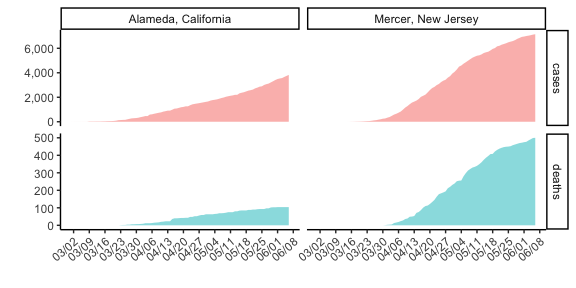
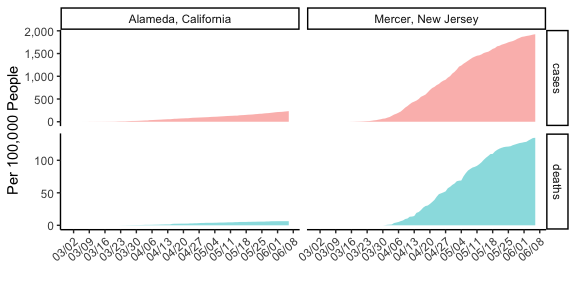
it makes the most sense to produce these number per capita

diff --git a/README.md b/README.md
@@ -1,7 +1,7 @@
 COVID-19 Data from NYT for Counties of Interest
 ================
 
-Updated: Sun Jun 7 15:06:02 2020
+Updated: Sun Jun 7 15:24:09 2020
 
 Get the Data
 ------------
@@ -22,16 +22,16 @@ Are you curious what it looks like? It looks like this.
 
 ``` r
 df %>%
-  sample_n(15) %>%
+  sample_n(5) %>%
   pander::pandoc.table(caption = 'NYT COVID Tracking Data')
 ```
 
-<table style="width:88%;">
+<table style="width:89%;">
 <caption>NYT COVID Tracking Data</caption>
 <colgroup>
 <col width="18%" />
-<col width="18%" />
-<col width="18%" />
+<col width="16%" />
+<col width="20%" />
 <col width="11%" />
 <col width="11%" />
 <col width="11%" />
@@ -48,123 +48,43 @@ df %>%
 </thead>
 <tbody>
 <tr class="odd">
-<td align="center">2020-05-11</td>
-<td align="center">Grand</td>
-<td align="center">Colorado</td>
-<td align="center">08049</td>
-<td align="center">5</td>
-<td align="center">0</td>
+<td align="center">2020-04-13</td>
+<td align="center">Hernando</td>
+<td align="center">Florida</td>
+<td align="center">12053</td>
+<td align="center">71</td>
+<td align="center">2</td>
 </tr>
 <tr class="even">
-<td align="center">2020-03-14</td>
-<td align="center">Sullivan</td>
-<td align="center">Tennessee</td>
-<td align="center">47163</td>
-<td align="center">1</td>
-<td align="center">0</td>
-</tr>
-<tr class="odd">
-<td align="center">2020-04-19</td>
-<td align="center">Shasta</td>
-<td align="center">California</td>
-<td align="center">06089</td>
-<td align="center">26</td>
-<td align="center">3</td>
-</tr>
-<tr class="even">
-<td align="center">2020-04-23</td>
-<td align="center">Marion</td>
-<td align="center">Texas</td>
-<td align="center">48315</td>
-<td align="center">6</td>
-<td align="center">0</td>
-</tr>
-<tr class="odd">
-<td align="center">2020-05-02</td>
-<td align="center">Butler</td>
-<td align="center">Missouri</td>
-<td align="center">29023</td>
-<td align="center">26</td>
-<td align="center">0</td>
-</tr>
-<tr class="even">
-<td align="center">2020-06-04</td>
-<td align="center">Sevier</td>
-<td align="center">Tennessee</td>
-<td align="center">47155</td>
-<td align="center">97</td>
+<td align="center">2020-05-16</td>
+<td align="center">Bulloch</td>
+<td align="center">Georgia</td>
+<td align="center">13031</td>
+<td align="center">45</td>
 <td align="center">2</td>
 </tr>
 <tr class="odd">
-<td align="center">2020-04-16</td>
-<td align="center">Auglaize</td>
-<td align="center">Ohio</td>
-<td align="center">39011</td>
-<td align="center">19</td>
-<td align="center">1</td>
-</tr>
-<tr class="even">
-<td align="center">2020-03-21</td>
-<td align="center">Lake</td>
-<td align="center">Illinois</td>
-<td align="center">17097</td>
-<td align="center">63</td>
-<td align="center">0</td>
-</tr>
-<tr class="odd">
-<td align="center">2020-05-25</td>
-<td align="center">Broadwater</td>
-<td align="center">Montana</td>
-<td align="center">30007</td>
+<td align="center">2020-04-14</td>
+<td align="center">Linn</td>
+<td align="center">Oregon</td>
+<td align="center">41043</td>
+<td align="center">52</td>
 <td align="center">4</td>
-<td align="center">0</td>
 </tr>
 <tr class="even">
-<td align="center">2020-04-05</td>
-<td align="center">Franklin</td>
-<td align="center">Georgia</td>
-<td align="center">13119</td>
-<td align="center">5</td>
-<td align="center">0</td>
-</tr>
-<tr class="odd">
-<td align="center">2020-04-16</td>
-<td align="center">Lincoln</td>
-<td align="center">Idaho</td>
-<td align="center">16063</td>
-<td align="center">15</td>
-<td align="center">0</td>
-</tr>
-<tr class="even">
-<td align="center">2020-05-24</td>
-<td align="center">Beltrami</td>
-<td align="center">Minnesota</td>
-<td align="center">27007</td>
+<td align="center">2020-04-09</td>
+<td align="center">Codington</td>
+<td align="center">South Dakota</td>
+<td align="center">46029</td>
 <td align="center">12</td>
 <td align="center">0</td>
 </tr>
 <tr class="odd">
-<td align="center">2020-04-20</td>
-<td align="center">Bourbon</td>
-<td align="center">Kentucky</td>
-<td align="center">21017</td>
-<td align="center">8</td>
-<td align="center">1</td>
-</tr>
-<tr class="even">
-<td align="center">2020-04-09</td>
-<td align="center">Calcasieu</td>
-<td align="center">Louisiana</td>
-<td align="center">22019</td>
-<td align="center">209</td>
-<td align="center">4</td>
-</tr>
-<tr class="odd">
-<td align="center">2020-05-18</td>
-<td align="center">Meade</td>
-<td align="center">Kansas</td>
-<td align="center">20119</td>
-<td align="center">22</td>
+<td align="center">2020-05-19</td>
+<td align="center">Traill</td>
+<td align="center">North Dakota</td>
+<td align="center">38097</td>
+<td align="center">2</td>
 <td align="center">0</td>
 </tr>
 </tbody>
@@ -186,11 +106,15 @@ county_list = c(
 df %<>%
   # filter on the county_list
   mutate(county = paste(county, state, sep = ', ')) %>%
+  # fips is NA when the data is at the state level
+  filter(!is.na(fips)) %>%
+  left_join(select(usmap::countypop, fips, population = pop_2015), 
+            by = 'fips') %>%
   filter(county %in% county_list) %>% 
   # we don't need everything, keep only the region, day, and counts
-  select(county, date, cases, deaths) %>%
+  select(county, date, cases, deaths, population) %>%
   # tidy the data by putting all observations in rows
-  gather(key = type, value = number, -date, -county) %>%
+  gather(key = type, value = number, -date, -county, -population) %>%
   # group by county and type (deaths or cases) to get a delta column for new cases in a day
   group_by(county, type) %>%
   arrange(date) %>%
@@ -203,14 +127,15 @@ Curious what it looks like now? It looks like this.
 ``` r
 df %>%
   arrange(date) %>%
-  sample_n(15) %>%
+  sample_n(5) %>%
   pander::pandoc.table(caption = 'Tracking Data Ready for Plotting')
 ```
 
-<table style="width:81%;">
+<table style="width:99%;">
 <caption>Tracking Data Ready for Plotting</caption>
 <colgroup>
 <col width="30%" />
+<col width="18%" />
 <col width="18%" />
 <col width="12%" />
 <col width="12%" />
@@ -220,6 +145,7 @@ df %>%
 <tr class="header">
 <th align="center">county</th>
 <th align="center">date</th>
+<th align="center">population</th>
 <th align="center">type</th>
 <th align="center">number</th>
 <th align="center">new</th>
@@ -227,109 +153,44 @@ df %>%
 </thead>
 <tbody>
 <tr class="odd">
-<td align="center">Mercer, New Jersey</td>
-<td align="center">2020-04-27</td>
-<td align="center">deaths</td>
-<td align="center">194</td>
-<td align="center">6</td>
-</tr>
-<tr class="even">
-<td align="center">Mercer, New Jersey</td>
-<td align="center">2020-06-03</td>
-<td align="center">cases</td>
-<td align="center">7033</td>
-<td align="center">29</td>
-</tr>
-<tr class="odd">
 <td align="center">Alameda, California</td>
-<td align="center">2020-03-10</td>
-<td align="center">cases</td>
-<td align="center">25</td>
-<td align="center">1</td>
-</tr>
-<tr class="even">
-<td align="center">Mercer, New Jersey</td>
-<td align="center">2020-05-07</td>
+<td align="center">2020-04-29</td>
+<td align="center">1638215</td>
 <td align="center">deaths</td>
-<td align="center">313</td>
-<td align="center">15</td>
-</tr>
-<tr class="odd">
-<td align="center">Mercer, New Jersey</td>
-<td align="center">2020-05-01</td>
-<td align="center">deaths</td>
-<td align="center">239</td>
-<td align="center">8</td>
-</tr>
-<tr class="even">
-<td align="center">Alameda, California</td>
-<td align="center">2020-03-30</td>
-<td align="center">cases</td>
-<td align="center">304</td>
-<td align="center">13</td>
-</tr>
-<tr class="odd">
-<td align="center">Mercer, New Jersey</td>
-<td align="center">2020-05-27</td>
-<td align="center">deaths</td>
-<td align="center">458</td>
-<td align="center">6</td>
-</tr>
-<tr class="even">
-<td align="center">Mercer, New Jersey</td>
-<td align="center">2020-04-28</td>
-<td align="center">cases</td>
-<td align="center">3605</td>
-<td align="center">172</td>
-</tr>
-<tr class="odd">
-<td align="center">Alameda, California</td>
-<td align="center">2020-03-05</td>
-<td align="center">deaths</td>
-<td align="center">0</td>
+<td align="center">59</td>
 <td align="center">0</td>
 </tr>
 <tr class="even">
 <td align="center">Alameda, California</td>
-<td align="center">2020-05-28</td>
+<td align="center">2020-03-29</td>
+<td align="center">1638215</td>
 <td align="center">cases</td>
-<td align="center">3118</td>
-<td align="center">48</td>
-</tr>
-<tr class="odd">
-<td align="center">Mercer, New Jersey</td>
-<td align="center">2020-04-15</td>
-<td align="center">cases</td>
-<td align="center">1856</td>
-<td align="center">125</td>
-</tr>
-<tr class="even">
-<td align="center">Alameda, California</td>
-<td align="center">2020-04-08</td>
-<td align="center">deaths</td>
-<td align="center">16</td>
-<td align="center">1</td>
+<td align="center">291</td>
+<td align="center">14</td>
 </tr>
 <tr class="odd">
 <td align="center">Alameda, California</td>
-<td align="center">2020-03-16</td>
+<td align="center">2020-03-07</td>
+<td align="center">1638215</td>
 <td align="center">cases</td>
-<td align="center">40</td>
 <td align="center">3</td>
+<td align="center">0</td>
 </tr>
 <tr class="even">
-<td align="center">Mercer, New Jersey</td>
-<td align="center">2020-05-22</td>
+<td align="center">Alameda, California</td>
+<td align="center">2020-04-20</td>
+<td align="center">1638215</td>
 <td align="center">deaths</td>
-<td align="center">443</td>
-<td align="center">5</td>
+<td align="center">42</td>
+<td align="center">0</td>
 </tr>
 <tr class="odd">
 <td align="center">Mercer, New Jersey</td>
-<td align="center">2020-05-23</td>
+<td align="center">2020-04-29</td>
+<td align="center">371398</td>
 <td align="center">deaths</td>
-<td align="center">447</td>
-<td align="center">4</td>
+<td align="center">220</td>
+<td align="center">8</td>
 </tr>
 </tbody>
 </table>
@@ -342,11 +203,11 @@ This is what the straight-up cumulative data looks like.
 ``` r
 # time for plotting
 library(ggplot2)
-ggplot(df, aes(x = date, y = number, fill = type)) +
+ggplot(df, aes(x = date, y = number/population*1e5, fill = type)) +
   geom_area(alpha    = 0.5,
             position = 'identity',
             show.legend = FALSE) +
-  scale_y_continuous(name   = '',
+  scale_y_continuous(name   = 'Per 100,000 People',
                      labels = scales::comma) +
   scale_x_date(name        = '',
                date_breaks = '1 week',
@@ -361,12 +222,12 @@ ggplot(df, aes(x = date, y = number, fill = type)) +
 This looks at the daily increase.
 
 ``` r
-ggplot(df, aes(x = date, y = new, color = type)) +
+ggplot(df, aes(x = date, y = new/population*1e5, color = type)) +
   geom_step(show.legend = FALSE) +
   scale_x_date(name        = '',
                date_breaks = '1 week',
                labels      = scales::date_format('%m/%d')) +
-  scale_y_continuous(name   = 'Daily Increase') +
+  scale_y_continuous(name   = 'Daily Cases Per 100,000 People') +
   facet_grid(type~county, scales = 'free_y') +
   theme_classic() +
   theme(axis.text.x = element_text(angle = 40, hjust = 1))
@@ -378,14 +239,14 @@ Because of the noise in the daily data, maybe a weekly increase is a better idea
 
 ``` r
 df %>% 
-  dplyr::group_by(lubridate::week(date), type, county) %>% 
+  dplyr::group_by(lubridate::week(date), type, county, population) %>% 
   dplyr::summarize(new = sum(new), date = min(date)) %>%
-  ggplot(aes(x = date, y = new, color = type)) +
+  ggplot(aes(x = date, y = new/population*1e5, color = type)) +
   geom_step(show.legend = FALSE) +
   scale_x_date(name        = '',
                date_breaks = '1 week',
                labels      = scales::date_format('%m/%d')) +
-  scale_y_continuous(name   = 'Weekly Increase') +
+  scale_y_continuous(name   = 'Weekly Cases Per 100,000 People') +
   facet_grid(type~county, scales = 'free_y') +
   theme_classic() +
   theme(axis.text.x = element_text(angle = 40, hjust = 1))
